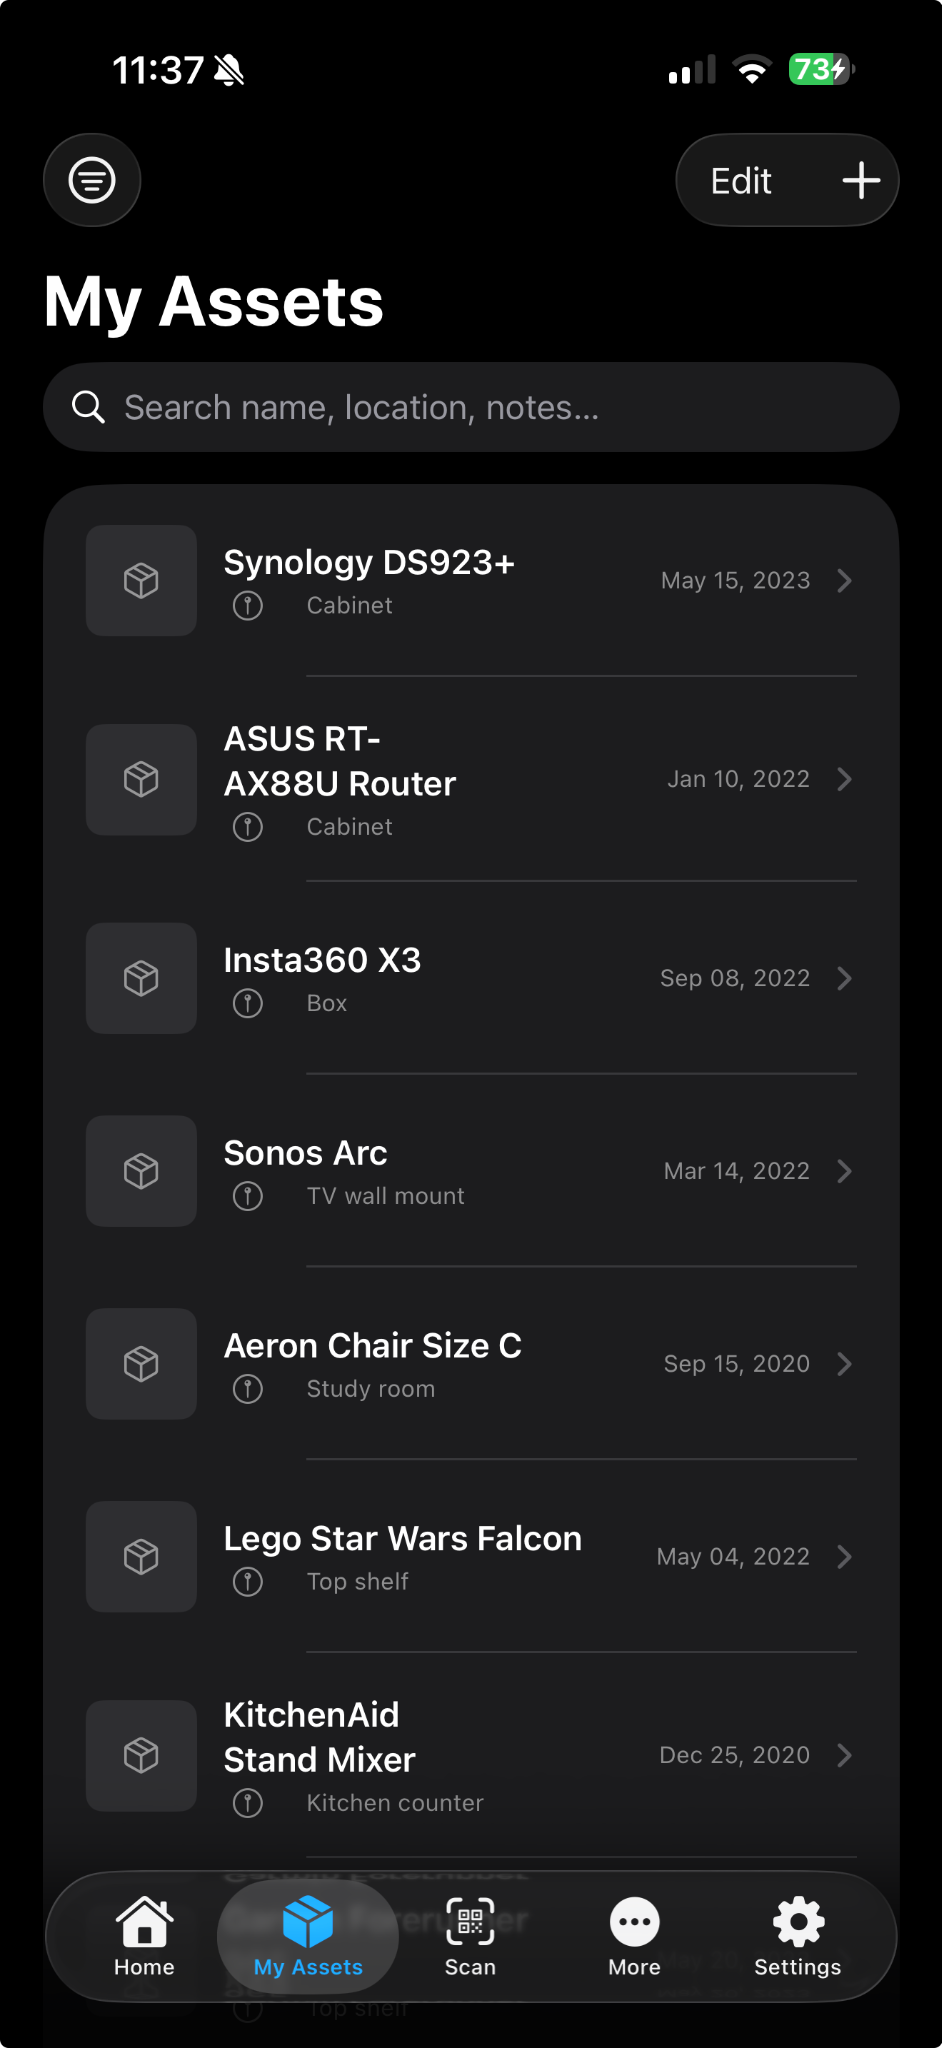
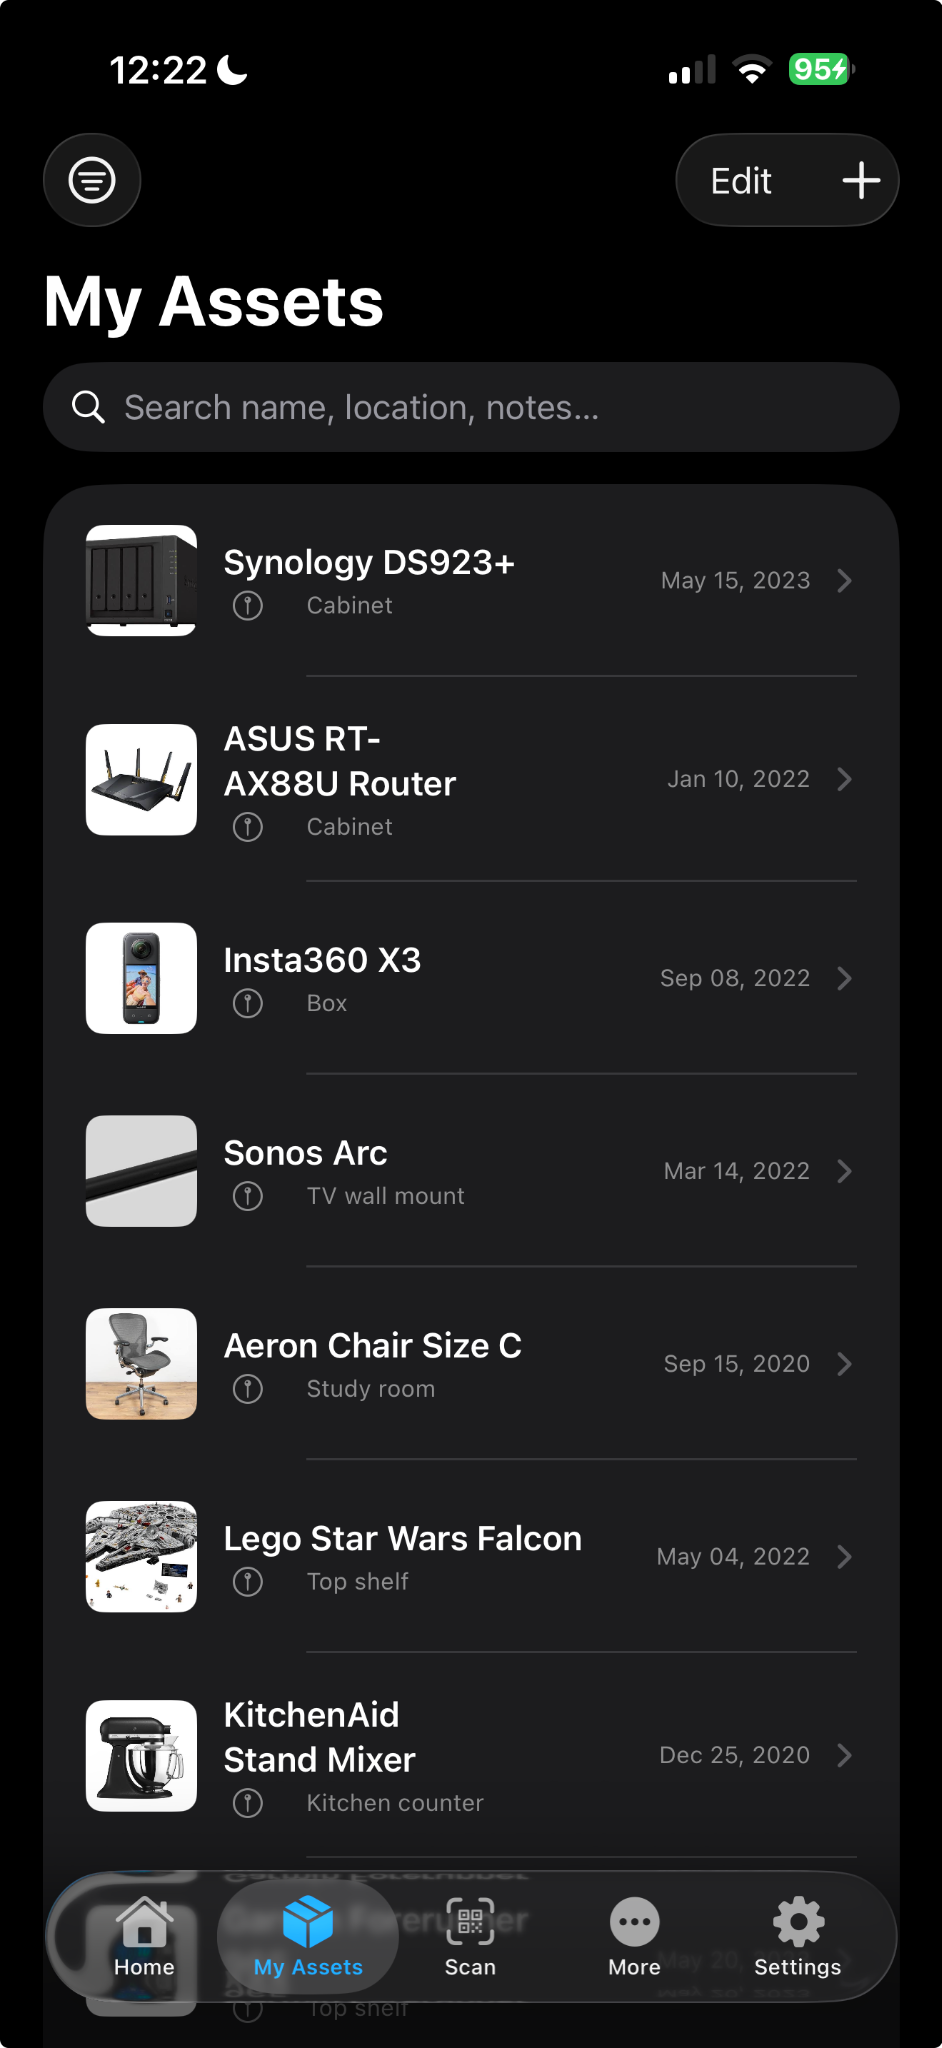
Add files via upload

diff --git a/style.css b/style.css
@@ -245,9 +245,17 @@ h1 {
 }
 
 .privacy-card {
+  display: block;
+  align-self: stretch;
   background:
     radial-gradient(circle at top right, var(--accent-soft), transparent 52%),
     var(--surface);
+}
+
+.privacy-card .feature-copy {
+  width: 100%;
+  align-self: start;
+  padding-top: 0;
 }
 
 .privacy-card .feature-copy {
